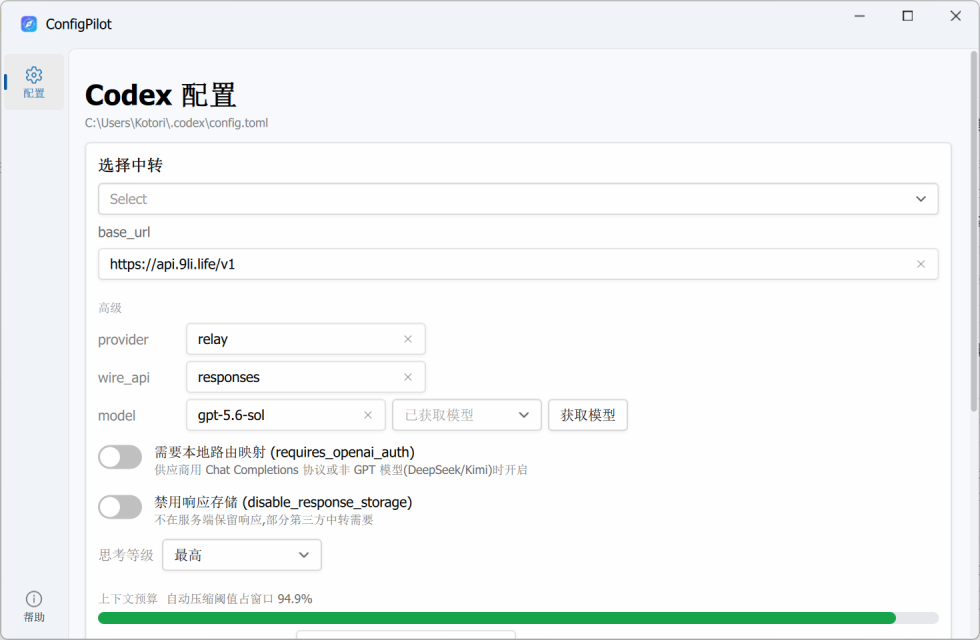
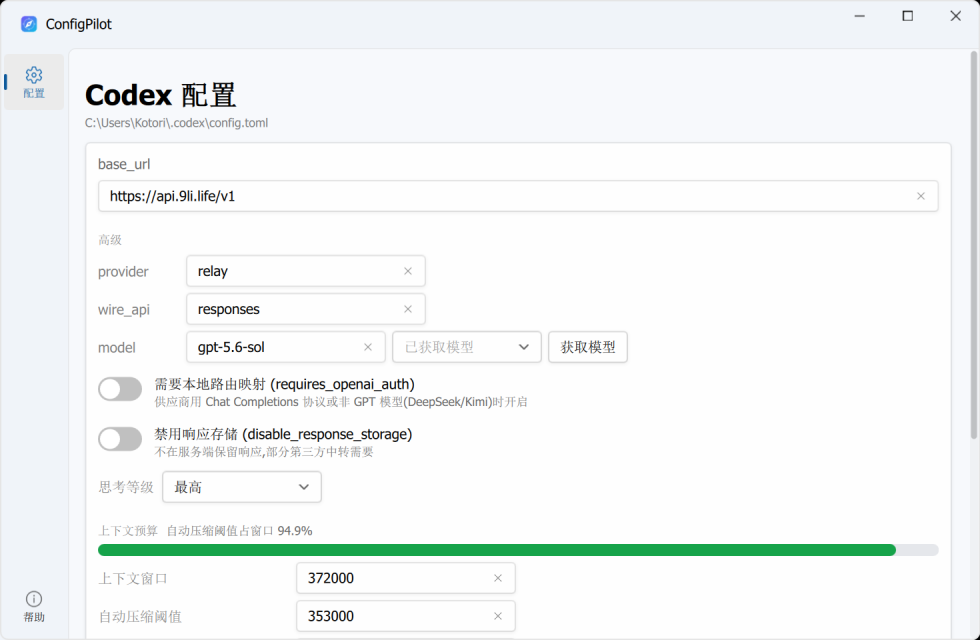
feat: 简化配置界面并新增上下文预设菜单

diff --git a/qml/views/CodexView.qml b/qml/views/CodexView.qml
@@ -21,6 +21,9 @@ Item {
     readonly property var currentContextPreset: CodexConfig
                                                 ? CodexConfig.contextPresetForModel(fModel)
                                                 : ({})
+    readonly property var contextPresetOptions: CodexConfig
+                                                ? CodexConfig.contextPresetOptions()
+                                                : []
     readonly property real contextWindowNumber: parsePositive(fContextWindow)
     readonly property real autoCompactNumber: parsePositive(fAutoCompactLimit)
     readonly property real compactRatio: contextWindowNumber > 0 && autoCompactNumber > 0
@@ -43,6 +46,13 @@ Item {
         fContextWindow = String(preset.contextWindow)
         fAutoCompactLimit = String(preset.autoCompactLimit)
         fToolOutputLimit = String(preset.toolOutputLimit)
+    }
+
+    function useContextPresetOption(option) {
+        var selection = CodexConfig
+                        ? CodexConfig.contextPresetSelection(option.id, fModel)
+                        : ({})
+        if (selection && selection.model) selectModel(selection.model)
     }
 
     function selectModel(modelName) {
@@ -126,37 +136,6 @@ Item {
                     topPadding: Fluent.Enums.spacing.l
                     bottomPadding: Fluent.Enums.spacing.l
                     spacing: Fluent.Enums.spacing.m
-
-                    Text {
-                        text: "选择中转"
-                        font.pixelSize: Fluent.Enums.typography.subtitle
-                        font.bold: true
-                        color: Fluent.Enums.textColor.primary
-                        font.family: Fluent.Enums.fontFamily
-                    }
-
-                    // 预置中转下拉:选中后填入下方各字段
-                    Fluent.ComboBoxDefault {
-                        id: presetBox
-                        width: parent ? parent.width - Fluent.Enums.spacing.l * 2 : 0
-                        property var presetList: CodexConfig ? CodexConfig.presets : []
-                        model: {
-                            var arr = []
-                            for (var i = 0; i < presetList.length; i++) arr.push(presetList[i].name)
-                            arr.push("自定义…")
-                            return arr
-                        }
-                        onActivated: function(index) {
-                            if (index >= 0 && index < presetList.length) {
-                                var p = presetList[index]
-                                root.fBaseUrl = p.baseUrl
-                                root.fProvider = p.provider
-                                root.fWireApi = p.wireApi
-                                root.selectModel(p.model)
-                            }
-                            // 选「自定义…」则不改字段,留用户手填
-                        }
-                    }
 
                     //__FIELDS__
                     // base_url(主字段)
@@ -393,10 +372,15 @@ Item {
                             spacing: Fluent.Enums.spacing.m
                             Fluent.Button {
                                 style: Fluent.Enums.button.style_default
-                                text: root.currentContextPreset.buttonText
-                                      || "当前模型无内置上下文预设"
-                                enabled: !!root.currentContextPreset.contextWindow
-                                onClicked: root.useModelContextPreset(root.fModel)
+                                feature: Fluent.Enums.button.feature_dropdown
+                                text: "套用上下文预设"
+                                menuItems: root.contextPresetOptions
+                                enabled: root.contextPresetOptions.length > 0
+                                onMenuItemClicked: function(index, text) {
+                                    if (index >= 0 && index < root.contextPresetOptions.length) {
+                                        root.useContextPresetOption(root.contextPresetOptions[index])
+                                    }
+                                }
                             }
                             Fluent.Button {
                                 style: Fluent.Enums.button.style_default

diff --git a/qml/views/AboutView.qml b/qml/views/AboutView.qml
@@ -40,7 +40,7 @@ Item {
                         font.family: Fluent.Enums.fontFamily
                     }
                     Text {
-                        text: "ConfigPilot 是 AI 工具配置与自动化中心。当前版本管理 Codex 的 config.toml 连接配置,支持在多个 API 中转之间切换并填写 API key。\n\n• 下拉选择预置中转(来自 providers.json),或手填自定义 base_url\n• 高级项可改 provider / wire_api / model\n• 「应用配置」写入 ~/.codex/config.toml,保留 notify 等其它内容\n• 写入前自动备份 config.toml.bak / auth.json.bak\n• 改完重启 Codex 生效"
+                        text: "ConfigPilot 是 AI 工具配置与自动化中心。当前版本管理 Codex 的 config.toml 连接配置,支持切换 API 地址并填写 API key。\n\n• 直接填写 base_url / provider / wire_api / model\n• 通过下拉按钮套用 GPT-5.5 或 GPT-5.6 上下文预设\n• 「应用配置」写入 ~/.codex/config.toml,保留 notify 等其它内容\n• 写入前自动备份 config.toml.bak / auth.json.bak\n• 改完重启 Codex 生效"
                         font.pixelSize: Fluent.Enums.typography.body
                         color: Fluent.Enums.textColor.secondary
                         font.family: Fluent.Enums.fontFamily

diff --git a/backend/model_profiles.py b/backend/model_profiles.py
@@ -48,6 +48,9 @@ class ModelProfiles:
         pattern_text = str(raw_profile.get("modelPattern", "")).strip()
         if not profile_id or not pattern_text:
             raise ValueError(f"profiles[{index}] 缺少 id 或 modelPattern")
+        default_model = str(raw_profile.get("defaultModel", "")).strip()
+        if not default_model:
+            raise ValueError(f"{profile_id} 缺少 defaultModel")
         try:
             pattern = re.compile(pattern_text, re.IGNORECASE)
         except re.error as exc:
@@ -55,6 +58,7 @@ class ModelProfiles:
         return {
             "id": profile_id,
             "pattern": pattern,
+            "defaultModel": default_model,
             "reasoningOptions": cls._normalize_options(
                 raw_profile.get("reasoningOptions"),
                 f"{profile_id}.reasoningOptions",
@@ -68,7 +72,9 @@ class ModelProfiles:
     def _normalize_context(raw_context, profile_id):
         if not isinstance(raw_context, dict):
             raise ValueError(f"{profile_id}.contextPreset 必须是对象")
-        result = {"buttonText": str(raw_context.get("buttonText", "")).strip()}
+        result = {"menuText": str(raw_context.get("menuText", "")).strip()}
+        if not result["menuText"]:
+            raise ValueError(f"{profile_id}.contextPreset 缺少 menuText")
         numeric_fields = (
             "contextWindow",
             "autoCompactLimit",
@@ -108,6 +114,25 @@ class ModelProfiles:
     def context_preset(self, model):
         profile = self.profile_for(model)
         return dict(profile["contextPreset"]) if profile else {}
+
+    def context_preset_options(self):
+        return [
+            {"id": profile["id"], "text": profile["contextPreset"]["menuText"]}
+            for profile in self._profiles
+            if profile["contextPreset"]
+        ]
+
+    def context_preset_selection(self, profile_id, current_model):
+        profile = next(
+            (item for item in self._profiles if item["id"] == profile_id),
+            None,
+        )
+        if not profile:
+            return {}
+        model = str(current_model or "").strip()
+        if not profile["pattern"].search(model):
+            model = profile["defaultModel"]
+        return {"model": model, **profile["contextPreset"]}
 
     def clamp_context_window(self, model, value):
         return self._clamp_context_value(model, value, "maxContextWindow")

diff --git a/tests/test_codex_config_auth.py b/tests/test_codex_config_auth.py
@@ -118,7 +118,7 @@ class CodexConfigAuthTests(unittest.TestCase):
                 self.assertEqual(
                     config.contextPresetForModel(model),
                     {
-                        "buttonText": "套用 GPT-5.6 默认上下文",
+                        "menuText": "GPT-5.6 默认上下文",
                         "contextWindow": 372000,
                         "autoCompactLimit": 353000,
                         "toolOutputLimit": 6000,
@@ -135,7 +135,7 @@ class CodexConfigAuthTests(unittest.TestCase):
             self.assertEqual(
                 config.contextPresetForModel("gpt-5.5"),
                 {
-                    "buttonText": "套用 GPT-5.5 稳定上下文",
+                    "menuText": "GPT-5.5 稳定上下文",
                     "contextWindow": 258400,
                     "autoCompactLimit": 245000,
                     "toolOutputLimit": 6000,
@@ -150,6 +150,21 @@ class CodexConfigAuthTests(unittest.TestCase):
                 ["", "low", "medium", "high", "xhigh"],
             )
             self.assertEqual(config.contextPresetForModel("custom-model"), {})
+            self.assertEqual(
+                config.contextPresetOptions(),
+                [
+                    {"id": "gpt-5.5", "text": "GPT-5.5 稳定上下文"},
+                    {"id": "gpt-5.6", "text": "GPT-5.6 默认上下文"},
+                ],
+            )
+            self.assertEqual(
+                config.contextPresetSelection("gpt-5.6", "gpt-5.6-terra")["model"],
+                "gpt-5.6-terra",
+            )
+            self.assertEqual(
+                config.contextPresetSelection("gpt-5.6", "gpt-5.5")["model"],
+                "gpt-5.6-sol",
+            )
 
     def test_apply_real_gpt56_config_sample(self):
         codex_config = self.load_module()

diff --git a/backend/codex_config.py b/backend/codex_config.py
@@ -300,6 +300,14 @@ class CodexConfig(QObject):
     def contextPresetForModel(self, model):
         return self._model_profiles.context_preset(model)
 
+    @Slot(result="QVariantList")
+    def contextPresetOptions(self):
+        return self._model_profiles.context_preset_options()
+
+    @Slot(str, str, result="QVariantMap")
+    def contextPresetSelection(self, profile_id, current_model):
+        return self._model_profiles.context_preset_selection(profile_id, current_model)
+
     @staticmethod
     def _set_block_scalar(block, key, value, is_str=True):
         """设置/删除 provider 块内标量字段。value 为 None 时删除。"""

diff --git a/tests/test_branding.py b/tests/test_branding.py
@@ -84,6 +84,13 @@ class BrandingTests(unittest.TestCase):
             self.assertEqual(png[:8], b"\x89PNG\r\n\x1a\n")
             self.assertEqual(struct.unpack(">II", png[16:24]), expected)
 
+    def test_context_presets_use_dropdown_button_without_relay_picker(self):
+        view = self.read("qml/views/CodexView.qml")
+        self.assertNotIn('text: "选择中转"', view)
+        self.assertNotIn("id: presetBox", view)
+        self.assertIn("feature: Fluent.Enums.button.feature_dropdown", view)
+        self.assertIn("menuItems: root.contextPresetOptions", view)
+
 
 if __name__ == "__main__":
     unittest.main()